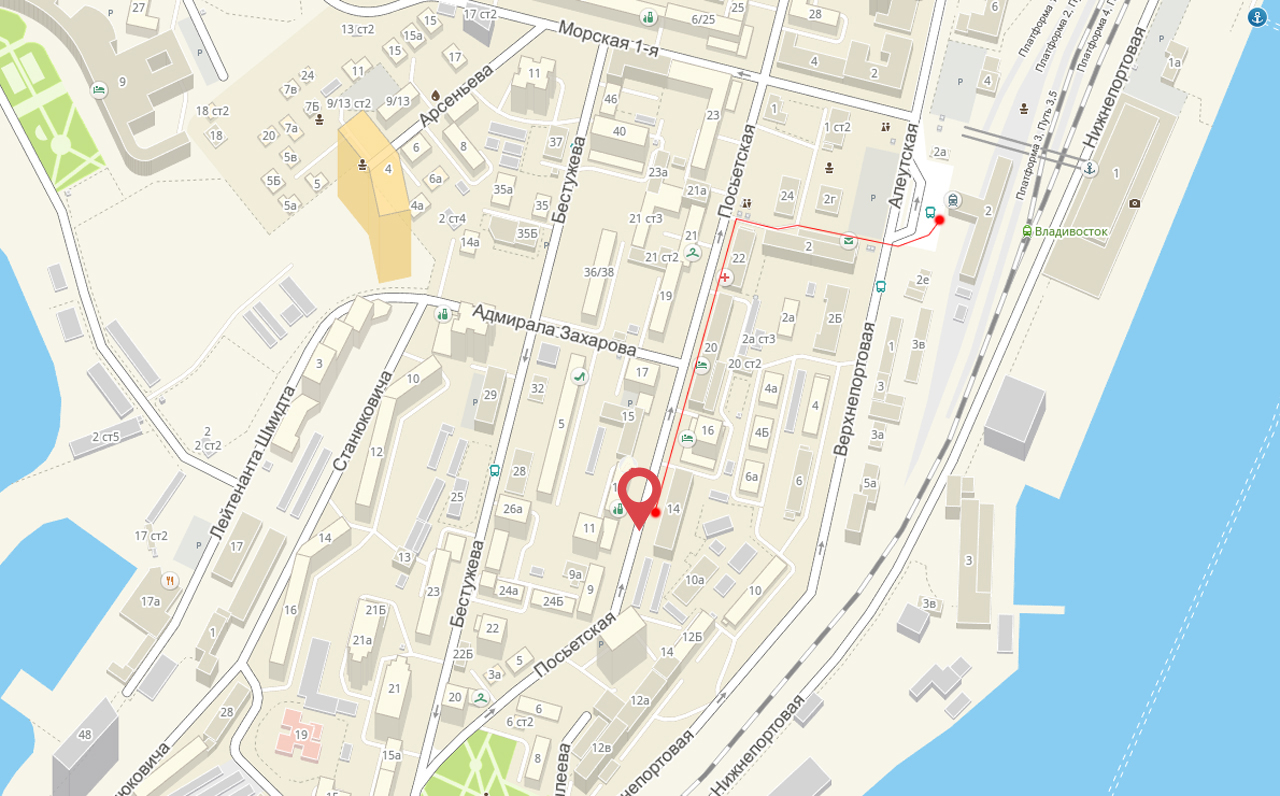
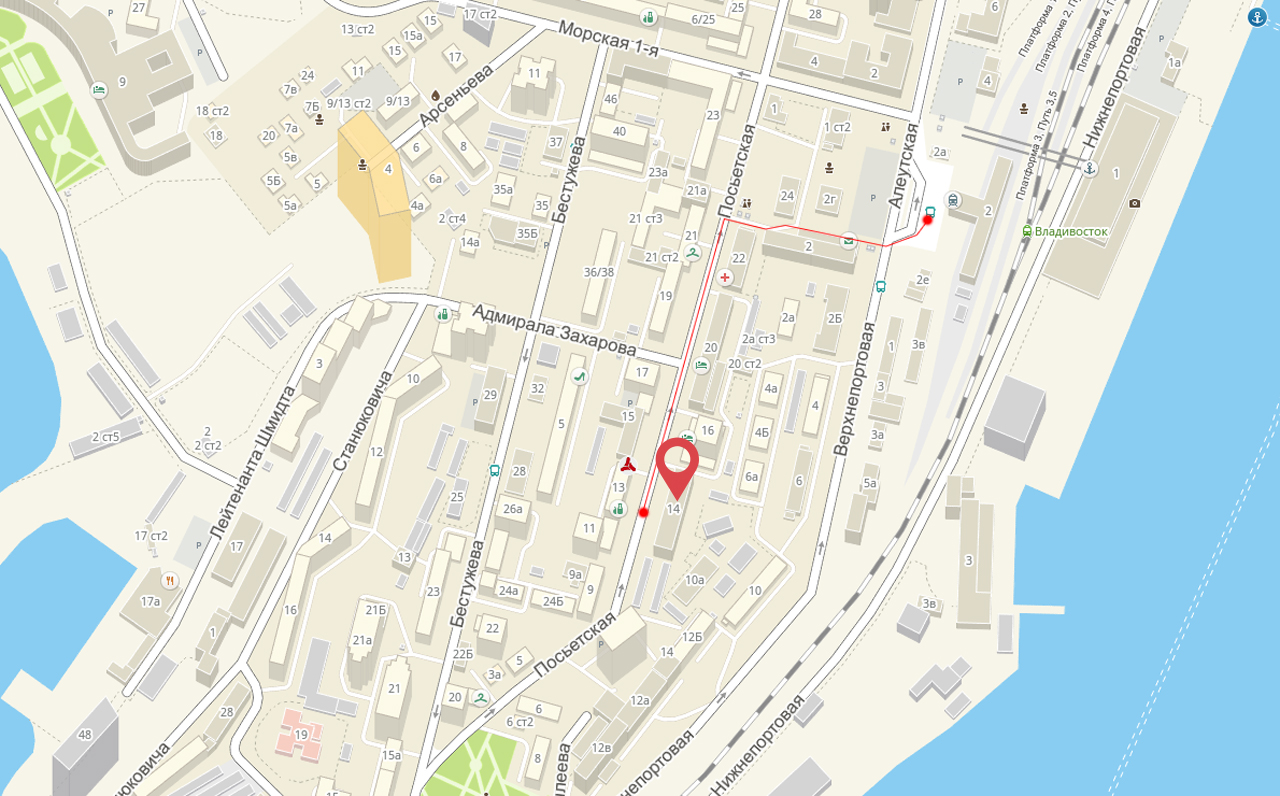
Меняю картинку и способ добраться аэроэкспрессом

diff --git a/application/views/template.php b/application/views/template.php
@@ -228,8 +228,8 @@ $nightCount = (round(($departureDate->getTimestamp() - $startDate->getTimestamp(
                     <div class="row map-path-hidden map-path-2">
                         <div class="col-lg-12 col-md-12 col-sm-12 col-xs-12">
                             <ul class="map-controls__list map-controls__list_sublist">
-                                <li class="map-controls__list_active" data-img="path2_pedestrian"><span>пешком</span></li>
-                                <li data-img="path2_taxi"><span>на такси</span></li>
+                                <li class="map-controls__list_active" data-img="path2_express"><span>аэроэкспрессом</span> <i class="fa fa-question-circle" aria-hidden="true" onclick="$('#expressInfo').modal('toggle');"></i></li>
+                                <li data-img="path2_taxi"><span>на такси</span> <i class="fa fa-question-circle" aria-hidden="true" onclick="$('#taxiInfo1').modal('toggle');"></i></li>
                             </ul>
                         </div>
                     </div>
@@ -237,7 +237,7 @@ $nightCount = (round(($departureDate->getTimestamp() - $startDate->getTimestamp(
                         <div class="col-lg-12 col-md-12 col-sm-12 col-xs-12">
                             <ul class="map-controls__list map-controls__list_sublist">
                                 <li class="map-controls__list_active" data-img="path3_bus"><span>на автобусе</span></li>
-                                <li data-img="path3_taxi"><span>на такси</span></li>
+                                <li data-img="path3_taxi"><span>на такси</span> <i class="fa fa-question-circle" aria-hidden="true" onclick="$('#taxiInfo1').modal('toggle');"></i></li>
                             </ul>
                         </div>
                     </div>
@@ -303,6 +303,29 @@ $nightCount = (round(($departureDate->getTimestamp() - $startDate->getTimestamp(
                 <div>тел. (423) 2-500-500</div>
                 <div>стоимость от 70 руб.</div>
                 <div><a href="http://vladivostok.taxisaturn.ru/" target="_blank">http://vladivostok.taxisaturn.ru/</a></div>
+            </div>
+            <div class="modal-footer"></div>
+        </div>
+    </div>
+</div>
+<div id="expressInfo" class="modal fade modal-booking" tabindex="-1" role="dialog" aria-labelledby="ModalLabel" aria-hidden="true">
+    <div class="modal-dialog modal-lg" role="document">
+        <div class="modal-content modal-booking">
+            <div class="modal-header">
+                <h5 class="modal-title">Расписание аэроэкспресса</h5>
+                <button type="button" class="close" data-dismiss="modal" aria-label="Close">
+                    <span aria-hidden="true">&times;</span>
+                </button>
+            </div>
+            <div class="modal-body">
+                <h4>Владивосток - Кневичи</h4>
+                <strong>стоимость 230 руб.</strong>
+                <div>07:08 (отправление) - 08:03 (прибытие)</div>
+                <div>09:01 (отправление) - 09:56 (прибытие)</div>
+                <div>12:00 (отправление) - 12:56 (прибытие)</div>
+                <div>16:00 (отправление) - 16:55 (прибытие)</div>
+                <div>18:00 (отправление) - 18:55 (прибытие)</div>
+                <div><a href="http://www.vl.ru/transport/aeroexpress" target="_blank">http://www.vl.ru/transport/aeroexpress</a></div>
             </div>
             <div class="modal-footer"></div>
         </div>
